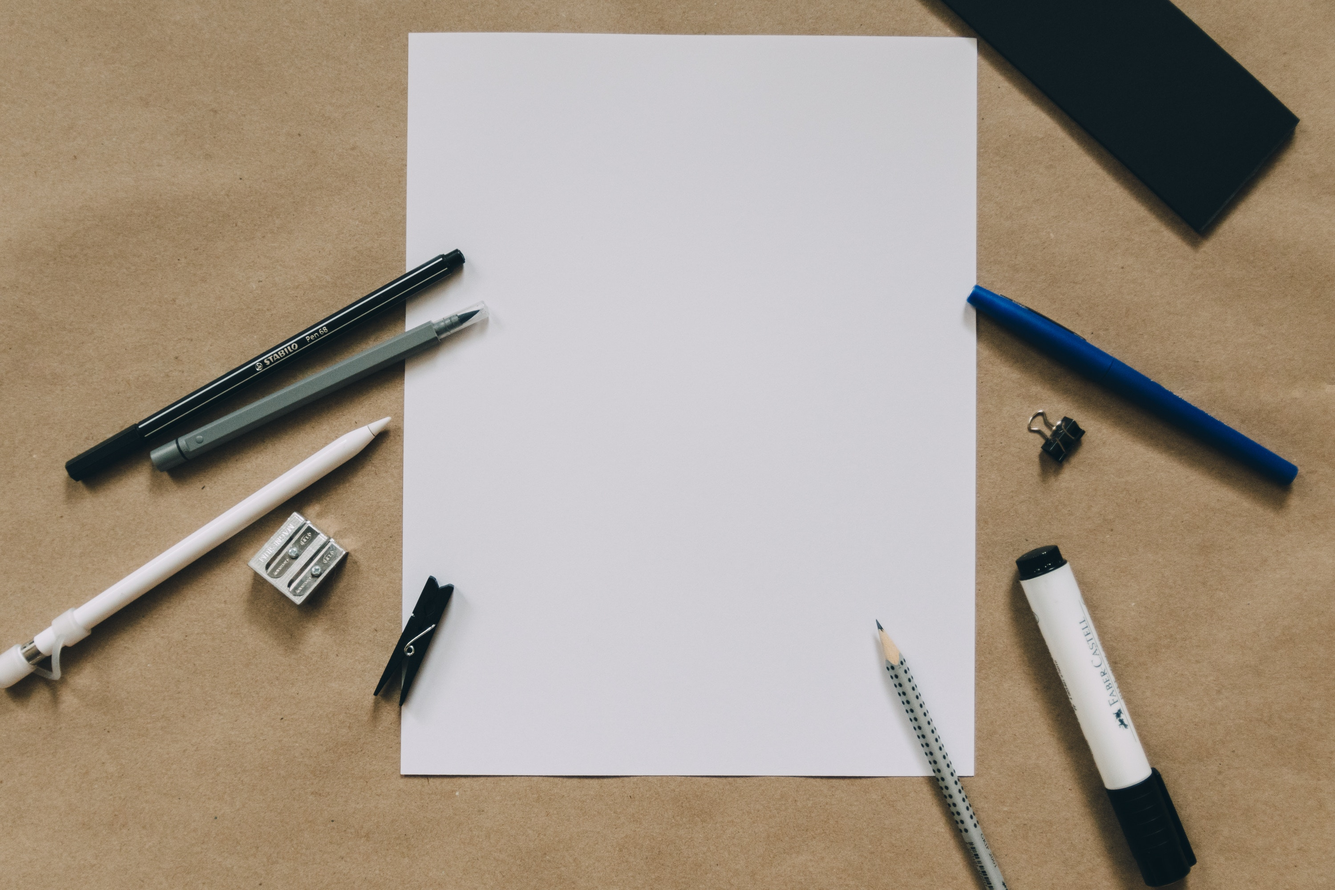
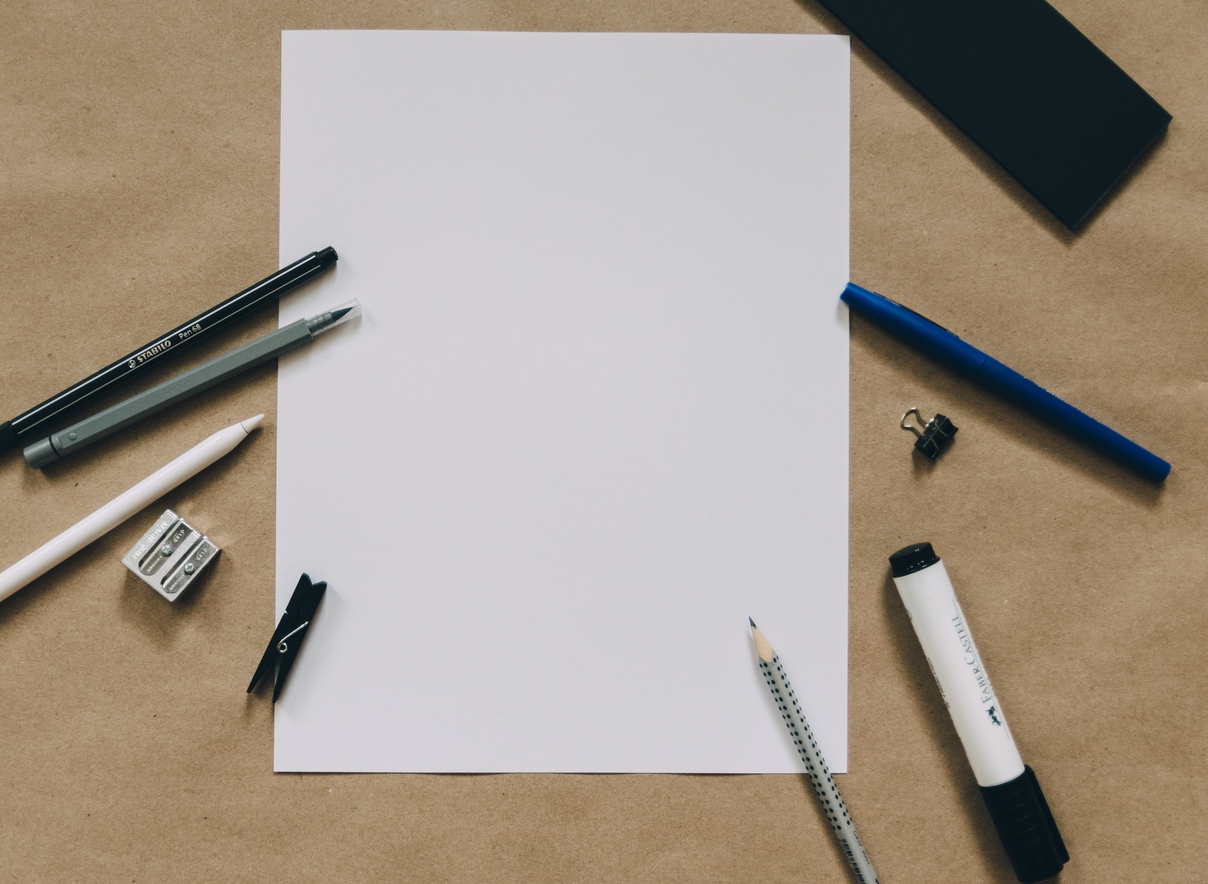
Fix 1.jpg size && announcement background effect

diff --git a/public/stylesheets/announcement.css b/public/stylesheets/announcement.css
@@ -122,11 +122,11 @@ padding-bottom: 40px;
 
 }
 #accordion .card-header{
-  /*background-color: transparent;*/
+  /* background-color: transparent; */
 
 }
 #accordion .card{
-background-color: #d9d9d9;
+background-color: transparent;
   border: none;
 }
 @media screen and (max-width:400px){
